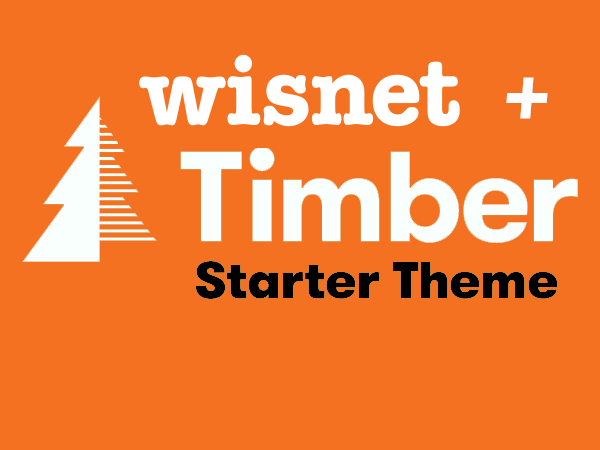
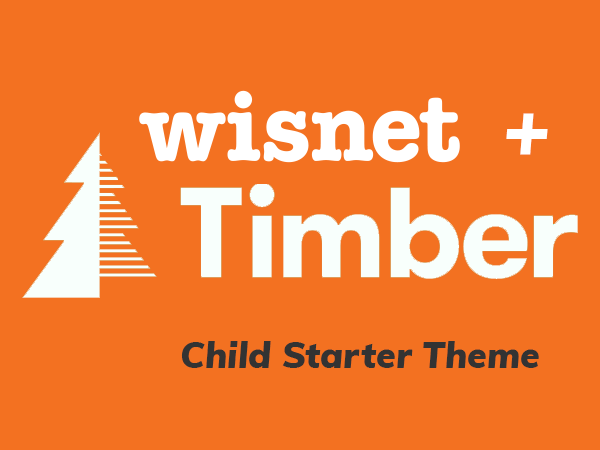
add example block and update screenshot

diff --git a/src/scss/blocks/_media-text.scss b/src/scss/blocks/_media-text.scss
@@ -10,6 +10,5 @@
 
   .wp-block-wrapper-media-text[content_alignment=bottom] & {
     align-self: flex-end;
-    @debug &;
   }
 }

diff --git a/inc/lib/wisnet/Block/Model/GlobalSetting.php b/inc/lib/wisnet/Block/Model/GlobalSetting.php
@@ -8,245 +8,10 @@
  * @author Michael Dahlke <mdahlke@wisnet.com>
  */
 
-namespace wisnet\Block\Model;
+namespace wisnet\Child\Block\Model;
 
-class GlobalSetting {
-	public $block;
-	private $container;
-	private $gutters;
-	private $alignment_vertical;
-	private $alignment_horizontal;
-	private $fluid_items;
-	private $items_break_point;
-	private $column_width;
+use wisnet\Block\View\Base;
 
-	private $defaultGlobalSettings = [
-		'container' => 'container',
-		'gutters' => 'md-gutters',
-		'alignment_vertical' => 'align-items-start',
-		'alignment_horizontal' => 'justify-content-start',
-		'fluid_items' => true,
-		'items_break_point' => 'col',
-		'column_width' => 12,
-	];
-
-	public function __construct() {
-		// parent::__construct();
-	}
-
-	public function __get($key) {
-		$method = str_replace('_', '', 'get' . $key);
-
-		if (method_exists($this, $method)) {
-			return $this->{$method};
-		}
-	}
-
-	/**
-	 * @return mixed
-	 */
-	public function getBlock() {
-		return $this->block;
-	}
-
-	/**
-	 * @param mixed $block
-	 * @return GlobalSetting
-	 */
-	public function setBlock($block) {
-		$this->block = $block;
-		return $this;
-	}
-
-	/**
-	 * @return mixed
-	 */
-	public function getContainer() {
-		if (!$this->container) {
-			$this->setContainer('container');
-		}
-		return $this->container;
-	}
-
-	/**
-	 * @param mixed $container
-	 * @return GlobalSetting
-	 */
-	public function setContainer($container) {
-		$this->container = $container;
-		return $this;
-	}
-
-	/**
-	 * @return mixed
-	 */
-	public function getGutters() {
-		if (!$this->gutters) {
-			$this->setGutters('md-gutters');
-		}
-		return $this->gutters;
-	}
-
-	/**
-	 * @param mixed $gutter
-	 * @return GlobalSetting
-	 */
-	public function setGutters($gutters) {
-		$this->gutters = $gutters;
-		return $this;
-	}
-
-	/**
-	 * @return mixed
-	 */
-	public function getAlignmentVertical() {
-		if (!$this->alignment_vertical) {
-			$this->setAlignmentVertical('align-items-start');
-		}
-		return $this->alignment_vertical;
-	}
-
-	/**
-	 * @param mixed $alignment_vertical
-	 * @return GlobalSetting
-	 */
-	public function setAlignmentVertical($alignment_vertical) {
-		$this->alignment_vertical = $alignment_vertical;
-		return $this;
-	}
-
-	/**
-	 * @return mixed
-	 */
-	public function getAlignmentHorizontal() {
-		if (!$this->alignment_horizontal) {
-			$this->setAlignmentHorizontal('justify-content-start');
-		}
-		return $this->alignment_horizontal;
-	}
-
-	/**
-	 * @param mixed $alignment_horizontal
-	 * @return GlobalSetting
-	 */
-	public function setAlignmentHorizontal($alignment_horizontal) {
-		$this->alignment_horizontal = $alignment_horizontal;
-		return $this;
-	}
-
-	/**
-	 * @return mixed
-	 */
-	public function getFluidItems() {
-		if (!$this->fluid_items) {
-			$this->setFluidItems(true);
-		}
-		return $this->fluid_items;
-	}
-
-	/**
-	 * @param mixed $fluid_items
-	 * @return GlobalSetting
-	 */
-	public function setFluidItems($fluid_items) {
-		$this->fluid_items = $fluid_items;
-		return $this;
-	}
-
-	/**
-	 * @return mixed
-	 */
-	public function getItemsBreakPoint() {
-		if (!$this->items_break_point) {
-			$this->setItemsBreakPoint('');
-		}
-		return $this->items_break_point;
-	}
-
-	/**
-	 * @param mixed $items_break_point
-	 * @return GlobalSetting
-	 */
-	public function setItemsBreakPoint($items_break_point) {
-		$this->items_break_point = $items_break_point;
-		return $this;
-	}
-
-	/**
-	 * @return mixed
-	 */
-	public function getColumnWidth() {
-		if (!$this->column_width) {
-			$this->setColumnWidth(12);
-		}
-		return $this->column_width;
-	}
-
-	/**
-	 * @param mixed $column_width
-	 * @return GlobalSetting
-	 */
-	public function setColumnWidth($column_width) {
-		$this->column_width = $column_width;
-		return $this;
-	}
-
-	public function blockLayoutAttributes($block) {
-		if (strpos(($block['name'] ?? false), 'acf/') < 0) {
-			return '';
-		}
-
-		$data = '';
-
-		foreach ($this->defaultGlobalSettings as $key => $default) {
-			$data .= 'block-' . $key . '="' . ($block[$key] ?? $default) . '" ';
-		}
-
-		return $data;
-	}
-
-	/**
-	 * Retrieve a setting (or multiple) from the global block settings
-	 * If the setting is not set, the default setting will be used.
-	 * Some settings should not be retrieved with other settings,
-	 * a good example of this would be the `column_width` because
-	 * that is going to need to be prefixed with `col-md-` in your template.
-	 *
-	 * @param $setting
-	 * @param $block
-	 * @param string $prefix Prefix the setting. Only works when retrieving and single setting
-	 * @return string
-	 */
-	public function getGlobalBlockSetting($setting, $block = null, $prefix = ''): string {
-		global $currentAcfBlock;
-		$found = [];
-
-		if (!$block) {
-			$block = $currentAcfBlock;
-		}
-
-		$this->setBlock($block);
-
-		if (is_array($setting)) {
-			foreach ($setting as $s) {
-				if (!empty($block->getSetting($s))) {
-					$found[] = $block->getSetting($s);
-				}
-				else if (!empty($this->{$s})) {
-					$found[] = $this->{$s};
-				}
-			}
-		}
-		else {
-			if (!empty($block->getSetting($setting))) {
-				$found[] = $prefix . $block->getSetting($setting);
-			}
-			else if (!empty($this->{$setting})) {
-				$found[] = $prefix . $this->{$setting};
-			}
-		}
-
-		return implode(' ', $found);
-	}
+class GlobalSetting extends Base {
 
 }

diff --git a/inc/lib/wisnet/Block/Controller/ExampleBlock.php b/inc/lib/wisnet/Block/Controller/ExampleBlock.php
@@ -8,9 +8,11 @@
  * @author Michael Dahlke <mdahlke@wisnet.com>
  */
 
-namespace wisnet\Block\Controller;
+namespace wisnet\Child\Block\Controller;
 
-class Butt extends Base {
+use wisnet\Block\Controller\Base;
+
+class ExampleBlock extends Base {
 	protected $name = 'butt';
 	protected $title = 'Butt';
 	protected $description = 'A generic block that acts as a catch-all for blocks that do not need any special processing.';
